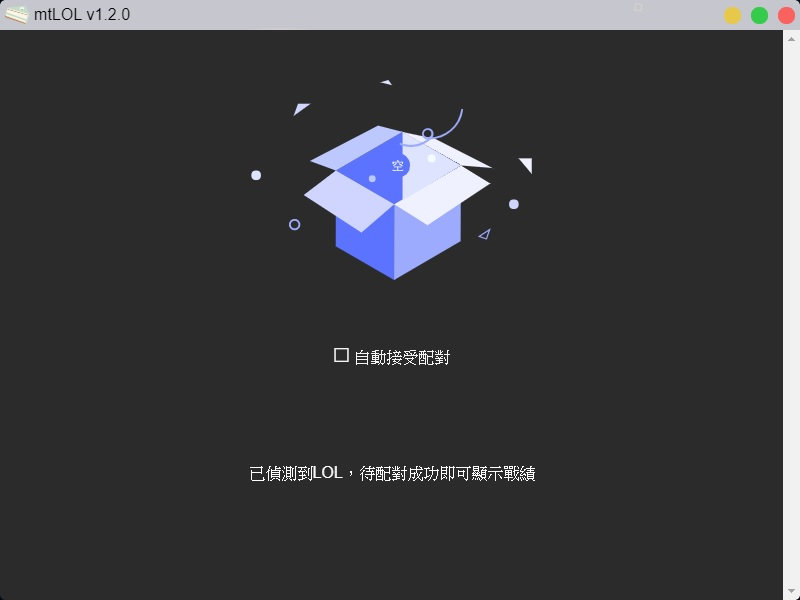
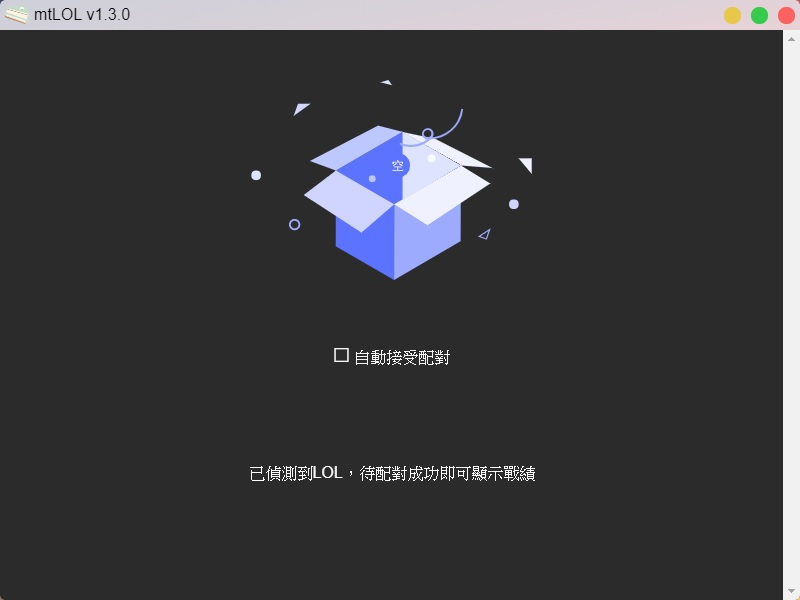
display 3 types rank data

Changed region(s): [[0.6875, 0.0, 1.0, 0.06]]

diff --git a/src/renderer/App.vue b/src/renderer/App.vue
@@ -114,6 +114,16 @@
         )
         return response.json()
       },
+      async detailRankData (rankData) {
+        const newRankData = {}
+        rankData.queues.forEach((el, index) => {
+          if (el.tier === 'NONE') {
+            return newRankData
+          }
+          newRankData[el.queueType] = `${this.tierTable[el.tier]} ${el.division}  ${el.leaguePoints}`
+        })
+        return newRankData
+      },
       async getAccountId () {
         this.accountIdList = []
         await Promise.all(this.teamList.map(async el => {
@@ -125,12 +135,14 @@
           const json = await response.json()
           // console.log(json)
           const rankData = await this.getRankData(json.puuid)
+          const newRankData = await this.detailRankData(rankData)
+          // console.log(newRankData)
           await this.accountIdList.push(
             {
               accountId: json.accountId,
               displayName: json.displayName,
               puuid: json.puuid,
-              rankData
+              rankData: newRankData
             }
           )
           // console.log(this.accountIdList)
@@ -148,7 +160,7 @@
           this.playerHistory.push(
             {
               displayName: el.displayName,
-              rankData: el.rankData.queues[0],
+              rankData: el.rankData,
               games: playerHistory.data.games.games
             }
           )
@@ -170,9 +182,7 @@
         if (val === 'ChampSelect') {
           this.getTeamList()
         } else if (val === 'ReadyCheck') {
-          console.log('等待確認')
           if (this.isAutoAccept) {
-            console.log('呼叫')
             this.clickAcceptBtn()
           }
         }
@@ -188,7 +198,23 @@
         accountIdList: [],
         proxy: 'https://cors-anywhere.herokuapp.com/',
         championList: null,
-        isAutoAccept: false
+        isAutoAccept: false,
+        queueTypesTable: {
+          'RANKED_SOLO_5x5': '單雙',
+          'RANKED_FLEX_SR': '彈性',
+          'RANKED_TFT': '戰棋'
+        },
+        tierTable: {
+          IRON: '鐵牌',
+          BRONZE: '銅牌',
+          SILVER: '銀牌',
+          GOLD: '金牌',
+          PLATINUM: '白金',
+          DIAMOND: '鑽石',
+          MASTER: '大師',
+          CHALLENGER: '菁英',
+          NONE: '無牌位'
+        }
       }
     }
   }

diff --git a/src/renderer/components/AppTable/AppTable.vue b/src/renderer/components/AppTable/AppTable.vue
@@ -8,11 +8,17 @@
         <th></th>
       </tr>
       <tr v-for="(history, index) in playerHistory" :key="index" class="table__row">
-        <td>
-            <p style="font-weight: 400">{{ history.displayName }}</p>
-            <p v-if="history.rankData.tier !== 'NONE'">牌位類型: {{ getQueueType(history.rankData.queueType) }}</p>
-            <p>{{ tierTable[history.rankData.tier] }} {{ history.rankData.division }}</p>
-            <p>{{ history.rankData.leaguePoints }} 分</p>
+        <td class="table__playerInfo">
+            <p style="font-weight: 600">{{ history.displayName }}</p>
+            <p>單雙: <span v-if="history.rankData.RANKED_SOLO_5x5">{{ history.rankData.RANKED_SOLO_5x5 }}</span>
+                     <span v-else>無牌位</span>
+            </p>
+            <p>彈性: <span v-if="history.rankData.RANKED_FLEX_SR">{{ history.rankData.RANKED_FLEX_SR }}</span>
+                     <span v-else>無牌位</span>
+            </p>
+            <p>戰棋: <span v-if="history.rankData.RANKED_TFT">{{ history.rankData.RANKED_TFT }}</span>
+                     <span v-else>無牌位</span>
+            </p>
         </td>
         <td v-for="(game, index) in history.games" :key="index">
           <p><span :class=" game.participants[0].stats.win ? 'icon--win' : 'icon--defeat'"></span></p>
@@ -64,17 +70,6 @@
     },
     data () {
       return {
-        tierTable: {
-          IRON: '鐵牌',
-          BRONZE: '銅牌',
-          SILVER: '銀牌',
-          GOLD: '金牌',
-          PLATINUM: '白金',
-          DIAMOND: '鑽石',
-          MASTER: '大師',
-          CHALLENGER: '菁英',
-          NONE: '無牌位'
-        },
         queueIdTable: {
           '420': '單雙積分',
           '430': '一般對戰',
@@ -84,11 +79,6 @@
           '840': '初階電腦',
           '850': '中階電腦',
           '1020': '無限死鬥'
-        },
-        queueTypesTable: {
-          'RANKED_SOLO_5x5': '單雙',
-          'RANKED_TEAM_5x5': '彈性',
-          'RANKED_TFT': '戰棋'
         }
       }
     }
@@ -118,6 +108,9 @@
         background-color: #2980b9;
         color: #FFF;
       }
+    }
+    &__playerInfo {
+      text-align: left;
     }
   }
   .icon--defeat {

diff --git a/src/renderer/components/AppTitleBar/AppTitleBar.vue b/src/renderer/components/AppTitleBar/AppTitleBar.vue
@@ -2,7 +2,7 @@
 <div class="titlebar">
   <div class="titlebar__info">
     <img src="static/icons.svg" alt="">
-    <p>mtLOL v1.2.0</p>
+    <p>mtLOL v1.3.0</p>
   </div>
   <div class="titlebar__control">
     <div class="titlebar__control--btn" id="titlebar__control--min" @click="controlWindow('min')"></div> 
